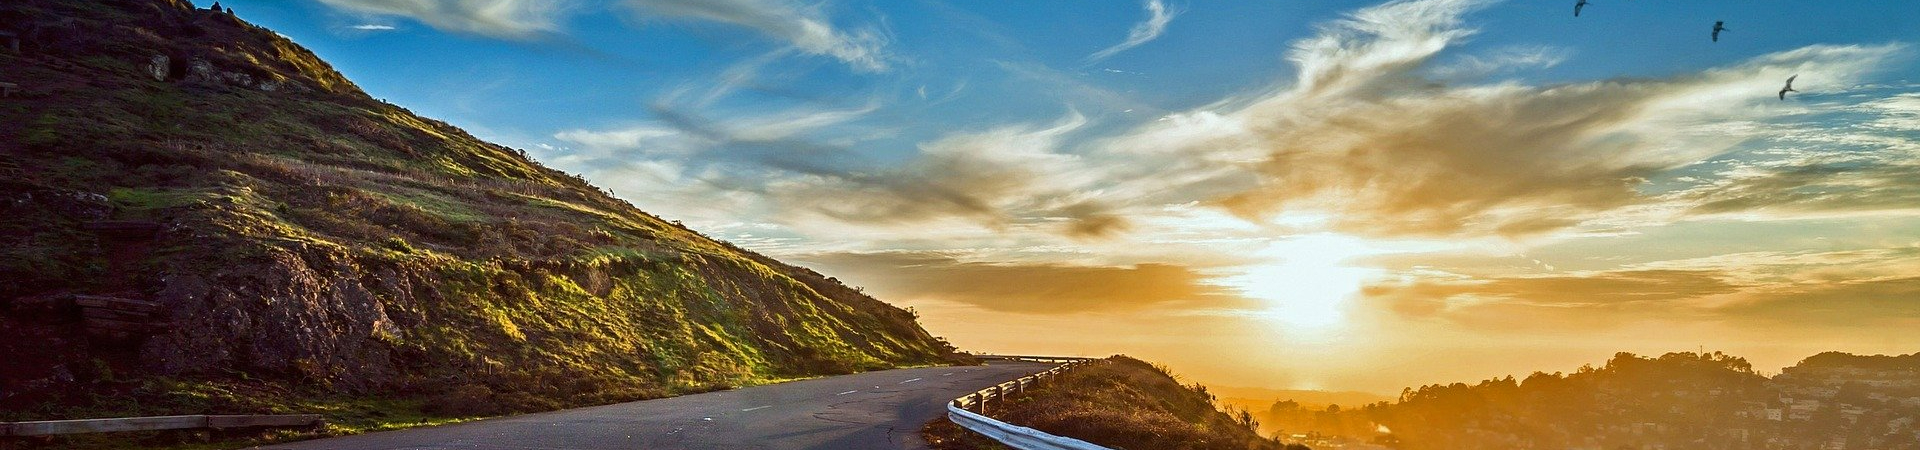
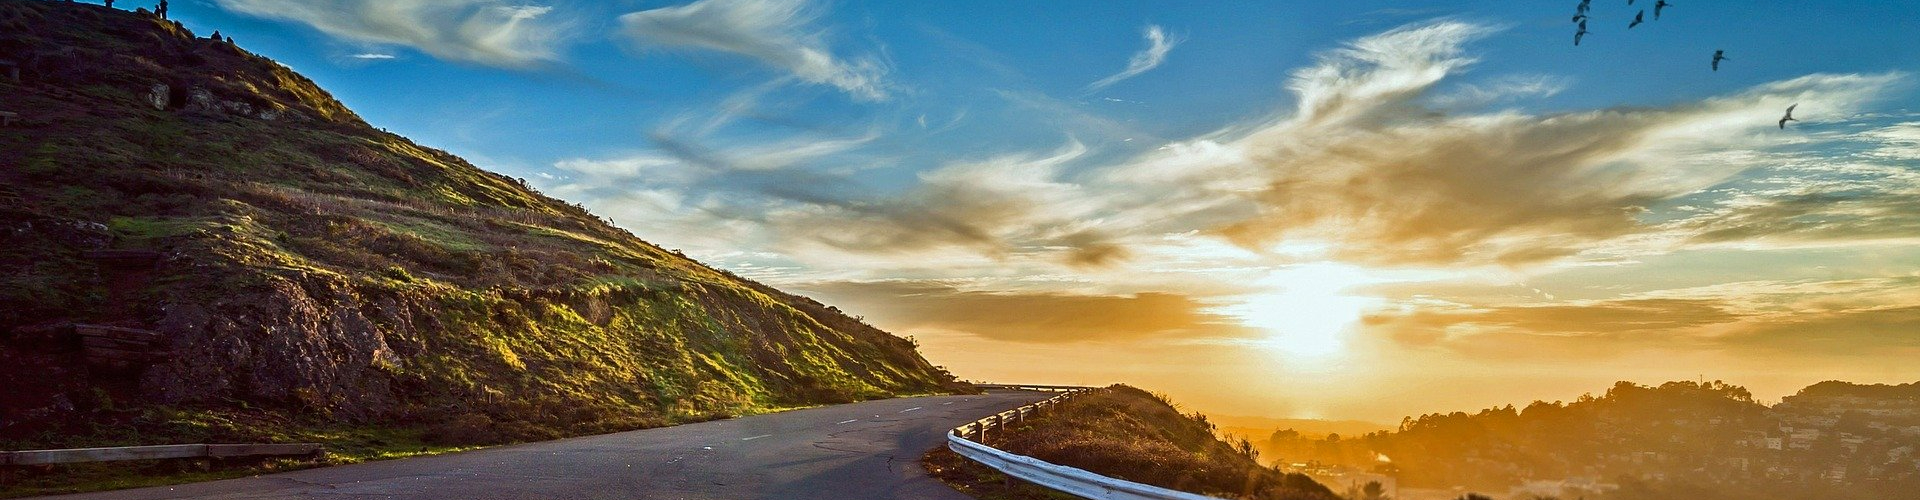
update

diff --git a/Web/React/myblog/src/comp/header/header.css b/Web/React/myblog/src/comp/header/header.css
@@ -11,7 +11,7 @@
     color: #fff;
     text-shadow: 3px 5px 5px rgba(0, 0, 0, 0.8);
     position: absolute;
-    top: 35%;
+    top: 23%;
     left: 10%;
     font-size: 24px;
 }
@@ -19,13 +19,13 @@
     color: #fff;
     text-shadow: 5px 5px 5px rgba(0, 0, 0, 0.8);
     position: absolute;
-    top: 40%;
+    top: 25%;
     left: 10%;
     font-size: 100px;
     font-weight: 800;
 }
 .headerImg{
     width: 100%;
-    height: 450px;
+    height: 500px;
     object-fit: cover;
 }

diff --git a/Web/HTML/myweb05/produce.html b/Web/HTML/myweb05/produce.html
@@ -206,7 +206,7 @@
                         <div class = "vvbox">
                             <div class="vbox">
                                 <p class="product-title">1234</p>
-                                <span>12341234</span>
+                                <span></span>
                             </div>
                             <div class="addbox">
                                 <div class="addbutton">

diff --git a/Web/React/myblog/src/comp/topbar/topbar.css b/Web/React/myblog/src/comp/topbar/topbar.css
@@ -29,6 +29,9 @@
 .topRight{
     justify-content: flex-end;
 }
+.topRight i{
+    margin-left: 10px;
+}
 .topCenter{
     flex: 6;
 }
